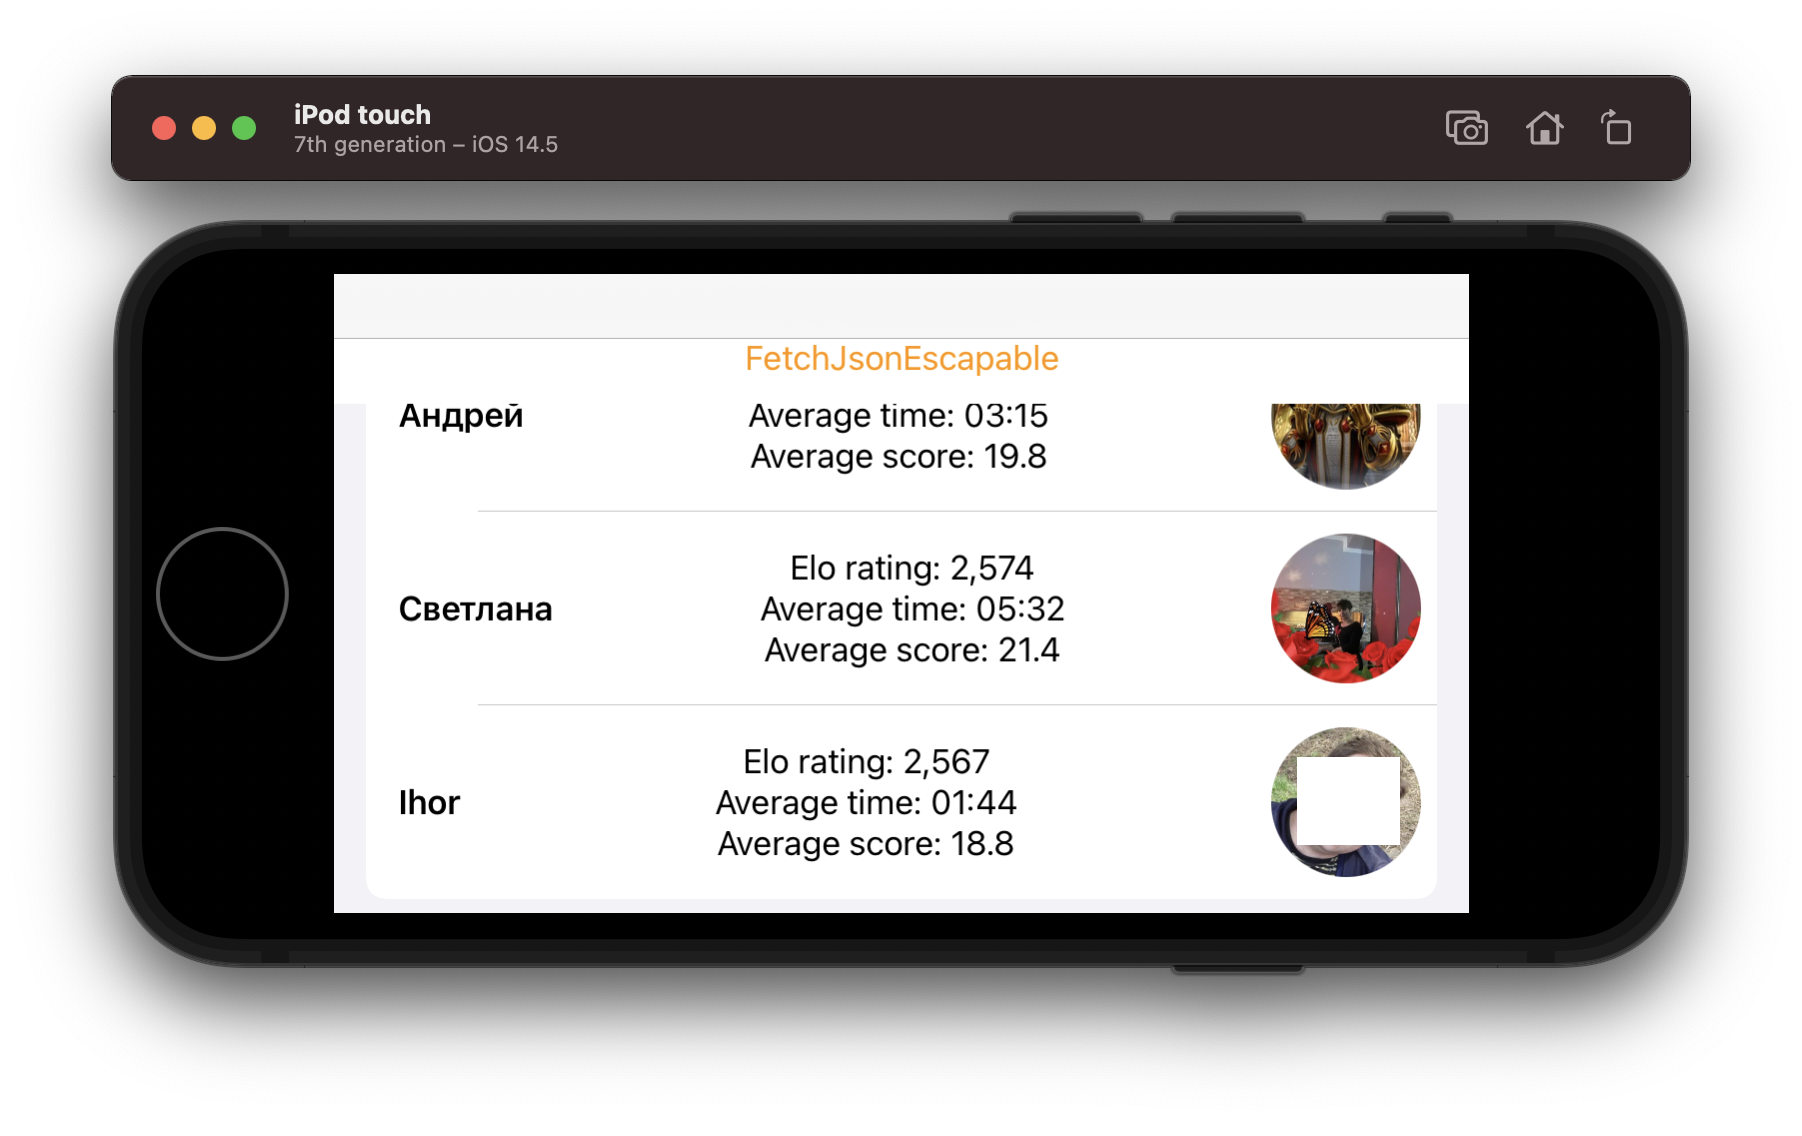
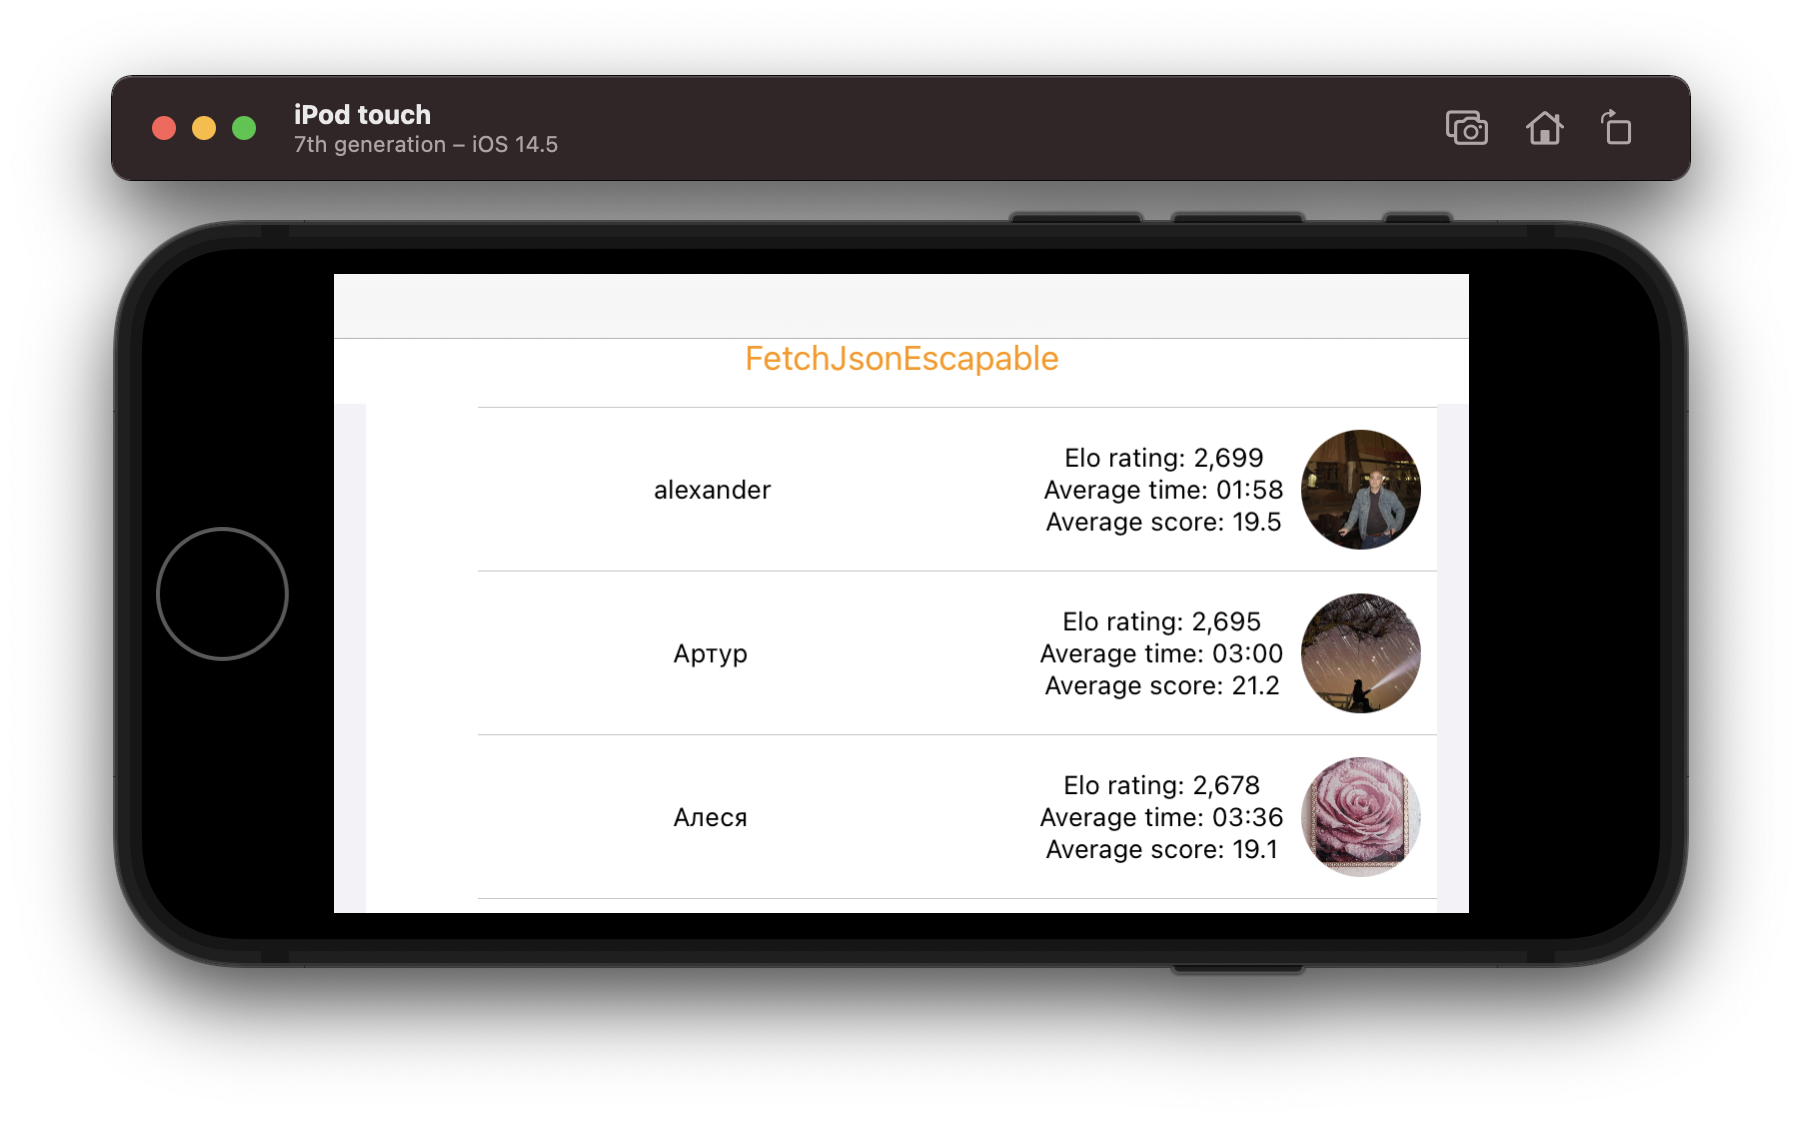
Use smaller font

diff --git a/FetchJsonEscapable/FetchJsonEscapable/Views/TopRow.swift b/FetchJsonEscapable/FetchJsonEscapable/Views/TopRow.swift
@@ -13,8 +13,7 @@ struct TopRow: View {
     var body: some View {
         HStack {
             Text(model.given)
-                .font(.headline)
-                .frame(minWidth: 0, maxWidth: .infinity)
+                .frame(minWidth: 60, maxWidth: .infinity)
             Spacer()
             VStack {
                 Text("Elo rating: \(model.elo)")
@@ -23,8 +22,8 @@ struct TopRow: View {
             }.fixedSize(horizontal: true, vertical: false)
             Spacer()
             DownloadingImage(url: model.photo ?? "TODO")
-                .frame(width: 75, height: 75)
-        }
+                .frame(width: 60, height: 60)
+        }.font(.footnote)
     }
 }
 
